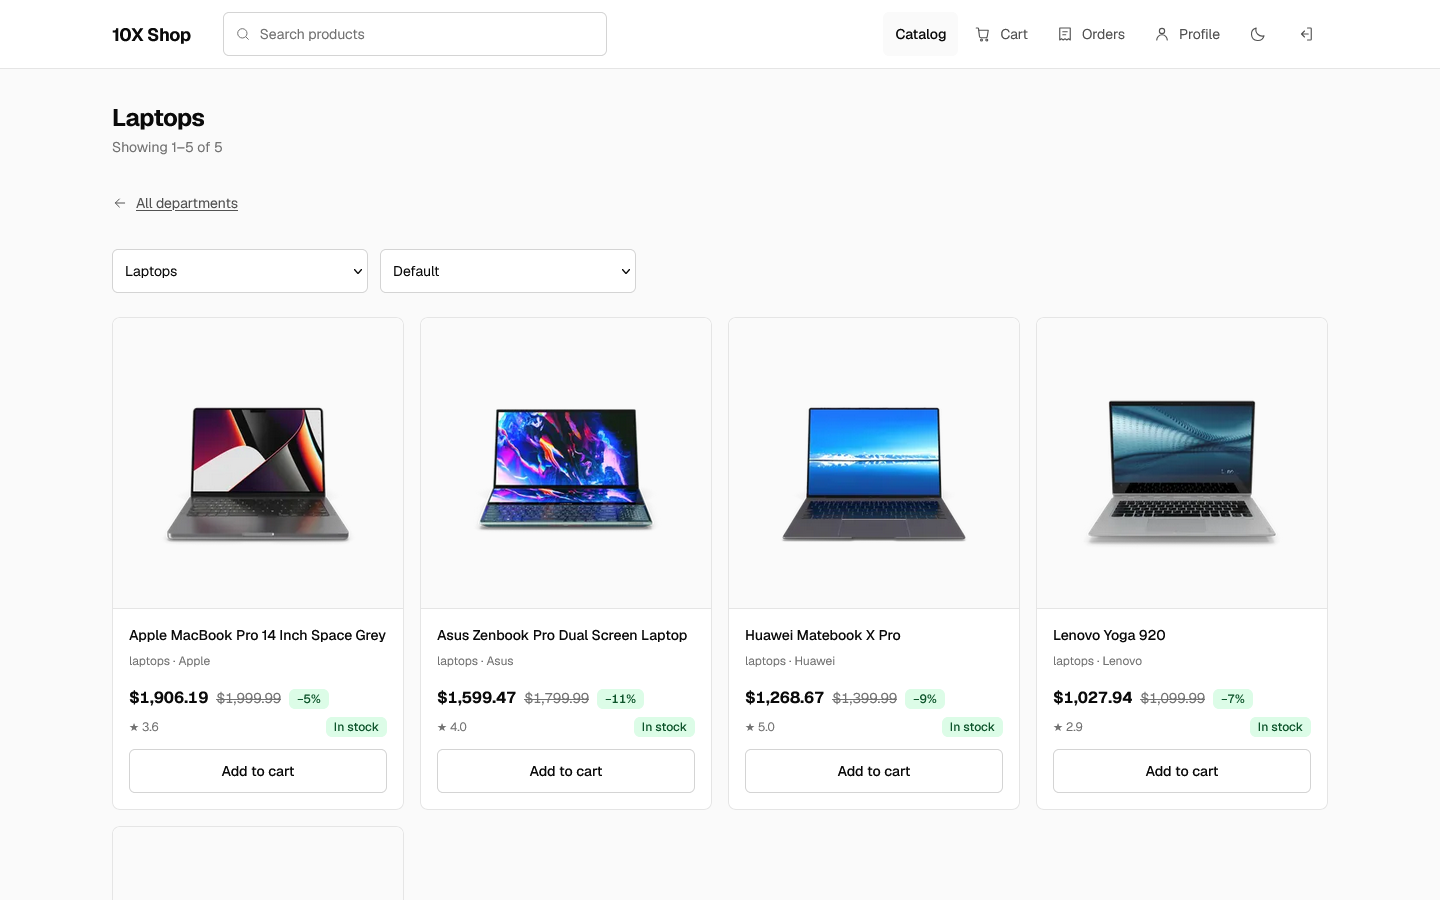
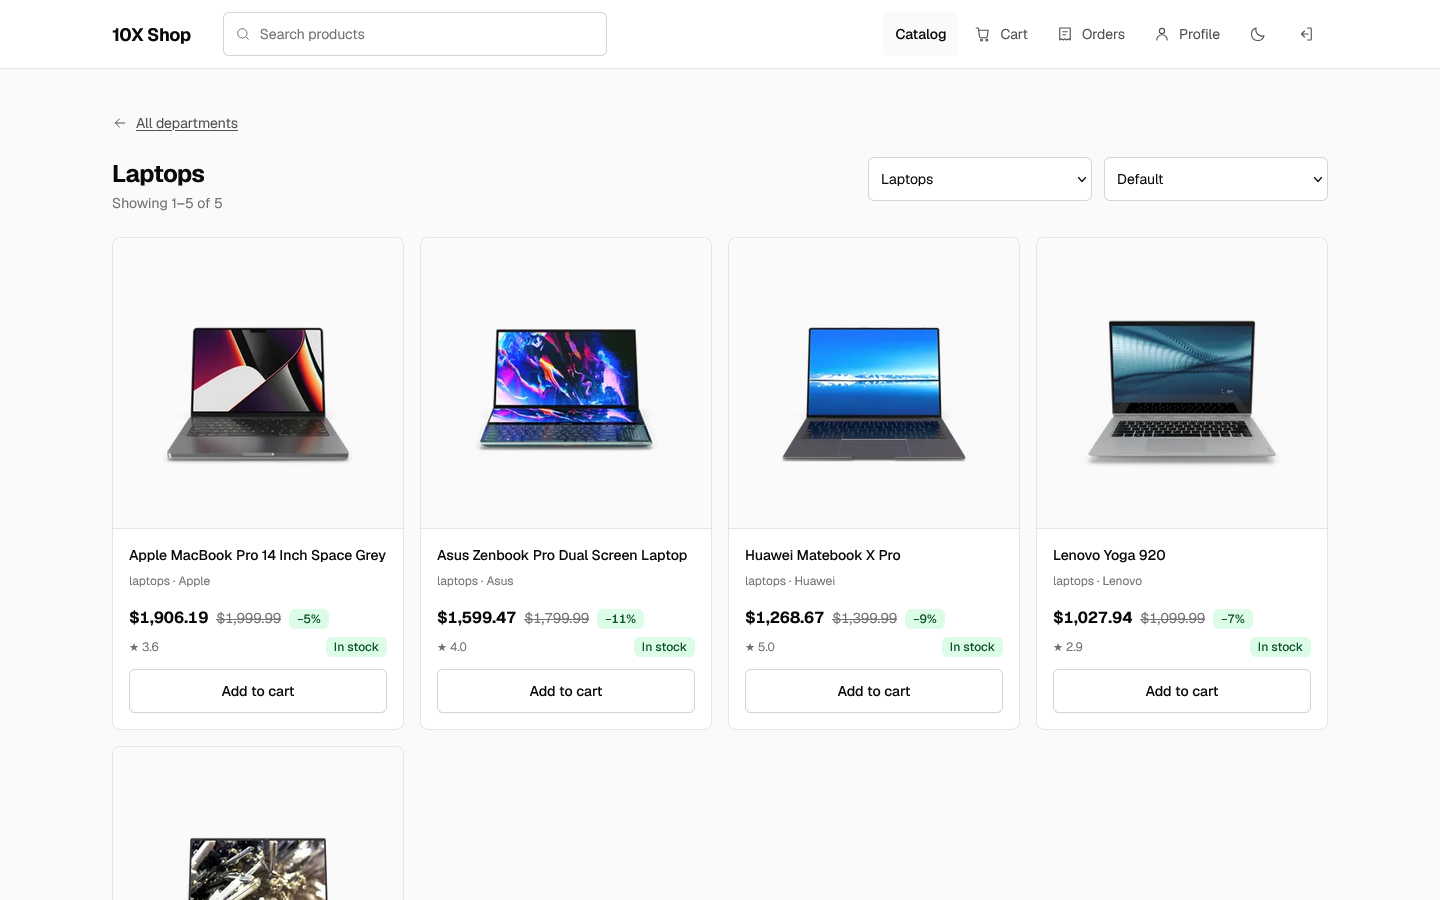
style: put a department's filters on its title row
Found by looking at the render rather than at the measurements, which passed.
A department opened four left-aligned rows deep - the name, the count, the
way back, then the filters - and every one of them left two thirds of the
width empty before a single product appeared.

The filters now ride on the title row and the way back sits above it: two
rows instead of four, the void at the right closed by the controls, and the
grid lifted about 80px up the screen. PageHeader already declared the slot
for this and nothing had ever used it.

diff --git a/src/pages/CatalogPage.tsx b/src/pages/CatalogPage.tsx
@@ -248,27 +248,47 @@ export default function CatalogPage() {
           }
         />
       ) : (
-        <PageHeader
-          title={openDepartment?.name ?? 'Catalog'}
-          description={
-            state.status === 'success'
-              ? describeRange(params.page, products.length, total)
-              : undefined
-          }
-        />
-      )}
+        <>
+          {/*
+            The way back out, above the title rather than under it. A
+            department's screen was four left-aligned rows deep - title,
+            count, this link, then the controls - before a single product
+            appeared, each one leaving two thirds of the width empty.
+          */}
+          <button
+            type="button"
+            onClick={() => setSearch(new URLSearchParams())}
+            className="mb-3 inline-flex min-h-11 w-fit items-center gap-2 rounded-sm text-sm text-muted underline underline-offset-2 transition-colors hover:text-ink focus-visible:outline-2 focus-visible:outline-offset-2 focus-visible:outline-ink"
+          >
+            <ArrowRightIcon size={16} className="rotate-180" />
+            All departments
+          </button>
 
-      {/* A way back out of a department, in the place a reader looks for it. */}
-      {!showingDepartments ? (
-        <button
-          type="button"
-          onClick={() => setSearch(new URLSearchParams())}
-          className="mb-6 inline-flex min-h-11 w-fit items-center gap-2 rounded-sm text-sm text-muted underline underline-offset-2 transition-colors hover:text-ink focus-visible:outline-2 focus-visible:outline-offset-2 focus-visible:outline-ink"
-        >
-          <ArrowRightIcon size={16} className="rotate-180" />
-          All departments
-        </button>
-      ) : null}
+          {/* The filters ride on the title row, which closes the void at its
+              right and lifts the products up the screen. */}
+          <PageHeader
+            title={openDepartment?.name ?? 'Catalog'}
+            description={
+              state.status === 'success'
+                ? describeRange(params.page, products.length, total)
+                : undefined
+            }
+          >
+            <CatalogToolbar
+              query={queryInput}
+              onQueryChange={setQueryInput}
+              categories={categories}
+              category={params.category}
+              onCategoryChange={(category) =>
+                // Choosing a category clears the query, for the same reason as above.
+                updateParams({ category, q: '', page: 1 })
+              }
+              sort={params.sort}
+              onSortChange={(sort) => updateParams({ sort, page: 1 })}
+            />
+          </PageHeader>
+        </>
+      )}
 
       {/*
         The departments. Every one of them, not a strip of eight: this is the
@@ -310,20 +330,7 @@ export default function CatalogPage() {
 
       {!showingDepartments ? (
         <>
-          <CatalogToolbar
-        query={queryInput}
-        onQueryChange={setQueryInput}
-        categories={categories}
-        category={params.category}
-        onCategoryChange={(category) =>
-          // Choosing a category clears the query, for the same reason as above.
-          updateParams({ category, q: '', page: 1 })
-        }
-        sort={params.sort}
-        onSortChange={(sort) => updateParams({ sort, page: 1 })}
-      />
-
-      {state.status === 'loading' ? (
+          {state.status === 'loading' ? (
         <>
           <p role="status" className="sr-only">
             Loading products

diff --git a/src/components/ui/PageHeader.tsx b/src/components/ui/PageHeader.tsx
@@ -4,7 +4,12 @@ interface PageHeaderProps {
   title: string
   /** One short sentence about the data on this screen, never about the UI. */
   description?: string
-  /** Optional actions, rendered at the right of the title row on desktop. */
+  /**
+   * Optional controls, rendered at the right of the title row from 640px and
+   * on their own line below it under that. Putting a screen's filters here
+   * rather than in a row of their own closes the empty right half the title
+   * would otherwise leave, and lifts the content up the screen.
+   */
   children?: ReactNode
 }
 
@@ -23,7 +28,9 @@ export default function PageHeader({ title, description, children }: PageHeaderP
           <p className="mt-1 text-sm text-subtle">{description}</p>
         ) : null}
       </div>
-      {children ? <div className="flex items-center gap-2">{children}</div> : null}
+      {children ? (
+        <div className="flex w-full items-center gap-2 sm:w-auto">{children}</div>
+      ) : null}
     </div>
   )
 }

diff --git a/src/components/catalog/CatalogToolbar.tsx b/src/components/catalog/CatalogToolbar.tsx
@@ -55,7 +55,7 @@ export default function CatalogToolbar({
   }
 
   return (
-    <div className="mb-6 grid grid-cols-1 gap-3 sm:grid-cols-2 lg:grid-cols-[16rem_16rem]">
+    <div className="grid w-full grid-cols-1 gap-3 sm:grid-cols-2 sm:w-auto lg:grid-cols-[14rem_14rem]">
       <div className="sm:col-span-2 md:hidden">
         <CatalogSearch query={query} onQueryChange={onQueryChange} />
       </div>
